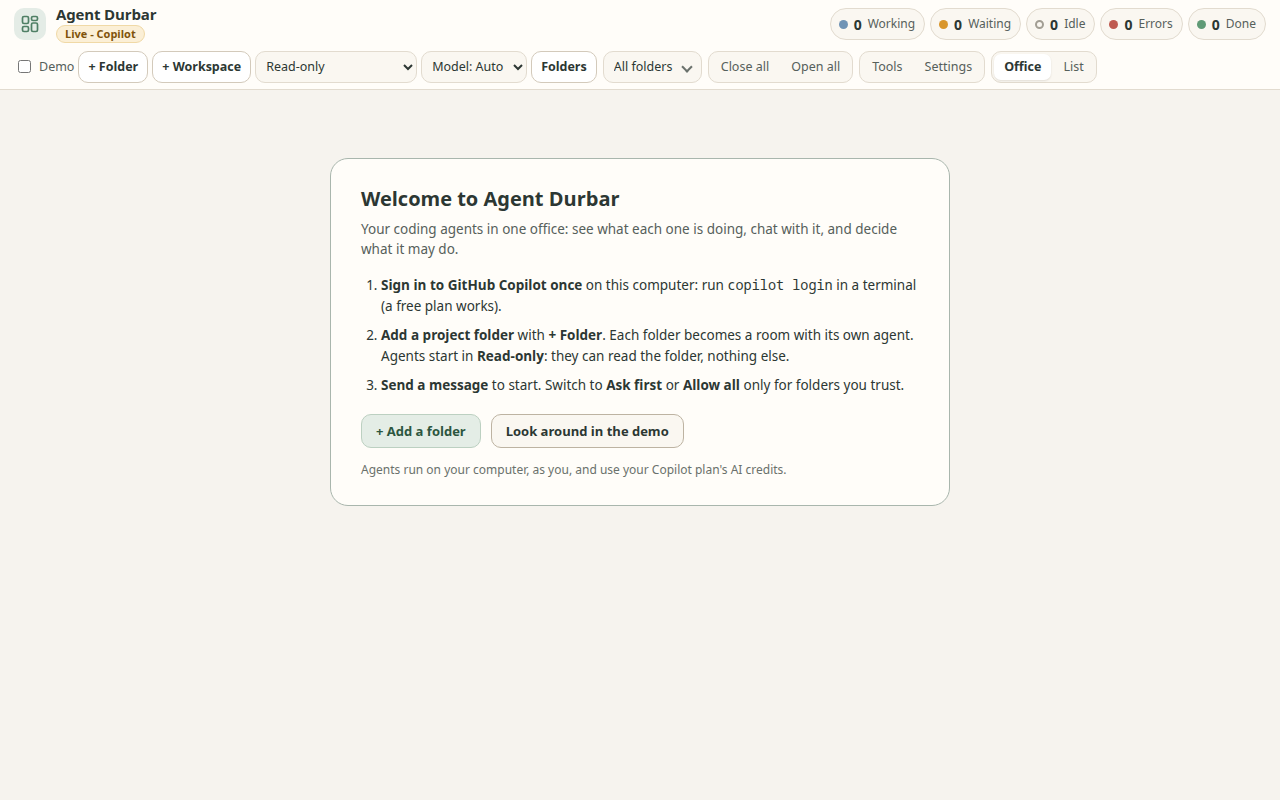
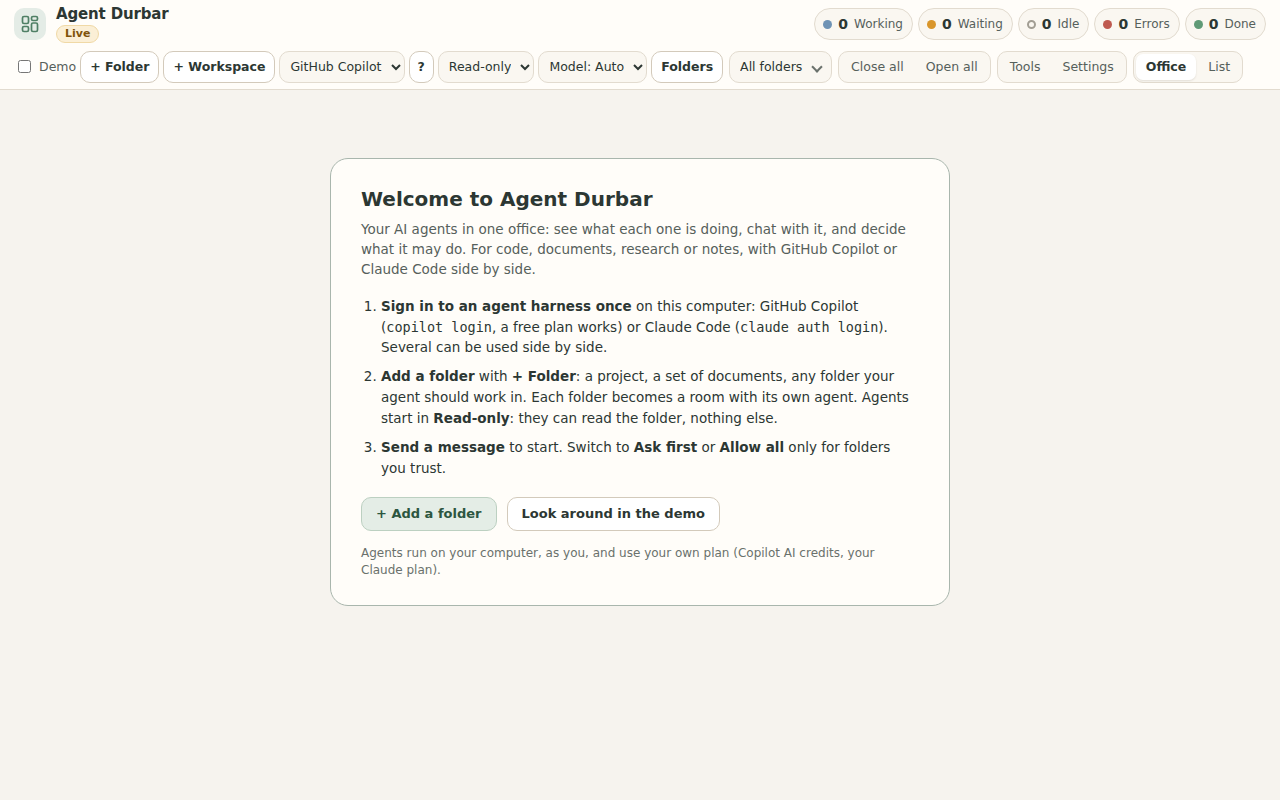
001 FR-027: positioning, many harnesses and anyone with agents (welcome card, badge, README, package description)

Changed region(s): [[0.2812, 0.2188, 0.7188, 0.6562], [0.0312, 0.0, 0.9688, 0.0938], [0.2812, 0.6875, 0.6875, 0.7188]]

diff --git a/src/renderer/app.js b/src/renderer/app.js
@@ -595,14 +595,14 @@ function chooseLayout(sizing,aw,ah){
 let layoutKey='', layout=null;
 /* spec 001 FR-026: what a new user needs before the first folder: sign in once, add a folder (Read-only), or look around in the demo */
 const WELCOME_HTML=`<section class="welcome" aria-labelledby="wlT"><h2 id="wlT">Welcome to Agent Durbar</h2>
-  <p class="wl-sub">Your coding agents in one office: see what each one is doing, chat with it, and decide what it may do.</p>
+  <p class="wl-sub">Your AI agents in one office: see what each one is doing, chat with it, and decide what it may do. For code, documents, research or notes, with GitHub Copilot or Claude Code side by side.</p>
   <ol class="wl-steps">
-    <li><b>Sign in to GitHub Copilot once</b> on this computer: run <code>copilot login</code> in a terminal (a free plan works).</li>
-    <li><b>Add a project folder</b> with <b>+ Folder</b>. Each folder becomes a room with its own agent. Agents start in <b>Read-only</b>: they can read the folder, nothing else.</li>
+    <li><b>Sign in to an agent harness once</b> on this computer: GitHub Copilot (<code>copilot login</code>, a free plan works) or Claude Code (<code>claude auth login</code>). Several can be used side by side.</li>
+    <li><b>Add a folder</b> with <b>+ Folder</b>: a project, a set of documents, any folder your agent should work in. Each folder becomes a room with its own agent. Agents start in <b>Read-only</b>: they can read the folder, nothing else.</li>
     <li><b>Send a message</b> to start. Switch to <b>Ask first</b> or <b>Allow all</b> only for folders you trust.</li>
   </ol>
   <div class="wl-actions"><button class="btn primary" type="button" data-wl="add">+ Add a folder</button><button class="btn" type="button" data-wl="demo">Look around in the demo</button></div>
-  <p class="wl-note">Agents run on your computer, as you, and use your Copilot plan's AI credits.</p></section>`;
+  <p class="wl-note">Agents run on your computer, as you, and use your own plan (Copilot AI credits, your Claude plan).</p></section>`;
 document.addEventListener('click',e=>{const b=e.target.closest('[data-wl]');if(!b)return;
   if(b.dataset.wl==='add')$('addFolder').click();
   else{const t=$('demoToggle');t.checked=true;t.dispatchEvent(new Event('change'));}});
@@ -1033,7 +1033,9 @@ const liveRoot=a=>a.parent?byId(a.parent):a;
 let renderQueued=false;
 function scheduleRender(){if(renderQueued)return;renderQueued=true;requestAnimationFrame(()=>{renderQueued=false;renderAll();});}
 function setBadge(){const b=$('protoBadge'); if(!b)return; b.className='proto'+(SIM&&!demoOn?' sim':'');
-  b.title=SIM&&!demoOn?'Fake events, no sessions started, no AI credits used':'';b.textContent=demoOn?'Prototype - sample data':SIM?'Simulated agents':'Live - Copilot';}
+  /* spec 001 FR-027: not one harness; the tooltip names the ready ones */
+  const ready=DMK().kindChoices(KINDS).filter(k=>!k.disabled).map(k=>k.name);
+  b.title=SIM&&!demoOn?'Fake events, no sessions started, no AI credits used':(!demoOn&&ready.length?'Live: '+ready.join(', '):'');b.textContent=demoOn?'Prototype - sample data':SIM?'Simulated agents':'Live';}
 function applyMode(){
   agents=demoOn?DEMO.agents:LIVE.agents; ROOMS=demoOn?DEMO.rooms:LIVE.rooms;
   ui.ws='all'; ui.status=null;
@@ -1967,6 +1969,7 @@ function applyKinds(){
   /* the other ready kinds' model lists, for their agents' model chips (spec 012 FR-120); a CLI probe, no prompt */
   (KINDS||[]).forEach(k=>{if(!isDefaultKind(k.id)&&k.state==='ready'&&DMK().shows(kindCaps(k.id),'models'))ensureModels(k.id).then(()=>scheduleRender());});
   syncKindModel();
+  setBadge(); /* FR-027: the badge's tooltip lists the ready harnesses */
 }
 async function loadKinds(refresh){
   if(!bridge||!bridge.listAdapters)return;
@@ -1977,7 +1980,7 @@ async function loadKinds(refresh){
 async function aboutKinds(){
   for(;;){
     const ch=DMK().kindChoices(KINDS);
-    const r=await askDialog({title:'About agent kinds',body:'Each kind is a different coding agent. Only a kind that is ready can be chosen. Nothing is installed or run from here: copy the hint if you need to set one up.',
+    const r=await askDialog({title:'About agent kinds',body:'Each kind is a different agent harness. Only a kind that is ready can be chosen. Nothing is installed or run from here: copy the hint if you need to set one up.',
       lines:ch.map(k=>k.name+': '+(k.state==='ready'?'ready':k.stateText)+(k.version?' · version '+k.version:'')+(k.hint?' · '+k.hint:'')),
       buttons:[{label:'Close',value:null},{label:'Check again',value:'again',cls:'primary'}],returnFocus:()=>$('kindHelp')});
     if(!r||r.value!=='again')return;

diff --git a/scripts/shots-001-welcome.js b/scripts/shots-001-welcome.js
@@ -1,0 +1,28 @@
+/*
+ * Spec 001 FR-026/FR-027: the welcome card of an empty office. Real app with a fresh profile (no folders, nothing runs, no
+ * prompt, no credits). Linux with xvfb-run:
+ *
+ *   npm run build
+ *   OUT=docs/screenshots DURBAR_USER_DATA=$(mktemp -d) DURBAR_DRIVER=$PWD/scripts/shots-001-welcome.js xvfb-run -a npx electron . --no-sandbox
+ *
+ * Checks the multi-harness wording (FR-027) and writes 001-welcome-1440x900.png and 001-welcome-1280x800.png.
+ */
+const assert = require('assert');
+const path = require('path');
+const OUT = process.env.OUT || '/tmp';
+
+module.exports = async (ctx) => {
+  for (const [w, h] of [[1440, 900], [1280, 800]]) {
+    ctx.win.setContentSize(w, h);
+    await ctx.sleep(3500);
+    const t = await ctx.js(`(document.querySelector('.welcome')||{}).innerText||''`);
+    assert.ok(t, 'the welcome card is shown');
+    for (const need of ['Your AI agents in one office', 'GitHub Copilot', 'Claude Code', 'Add a folder', 'your own plan']) assert.ok(t.includes(need), `welcome says "${need}"`);
+    assert.ok(!/coding agent/i.test(t), 'no "coding agents" wording');
+    const overflow = await ctx.js(`(()=>{const c=document.querySelector('.welcome').getBoundingClientRect();return c.right>innerWidth+1||c.bottom>innerHeight+1})()`);
+    assert.ok(!overflow, 'the card fits the window');
+    await ctx.shot(path.join(OUT, `001-welcome-${w}x${h}.png`));
+    console.log('[001-welcome]', w, 'ok');
+  }
+  console.log('[001-welcome] PASS');
+};

diff --git a/src/renderer/index.html b/src/renderer/index.html
@@ -24,7 +24,7 @@
       <button class="btn" id="addFolder" type="button" title="Add a folder">+ Folder</button>
       <button class="btn" id="addWs" type="button" title="Add a .code-workspace file">+ Workspace</button>
       <label class="sr-only" for="kindSel">Harness (agent kind) for new folders and sessions</label>
-      <select id="kindSel" title="Harness (agent kind) for new folders and sessions" style="max-width:96px" hidden></select>
+      <select id="kindSel" title="Harness (agent kind) for new folders and sessions" style="max-width:128px" hidden></select>
       <button class="btn" id="kindHelp" type="button" aria-label="About agent kinds" title="About agent kinds" style="padding:0 8px" hidden>?</button>
       <label class="sr-only" for="permMode">Permissions for new agents</label>
       <select id="permMode" title="Permissions for newly added agents"><option value="read-only">Read-only</option><option value="ask">Ask first</option><option value="allow">Allow all (no prompts)</option></select>

diff --git a/README.md b/README.md
@@ -4,9 +4,9 @@
 
 <h1 align="center">Agent Durbar</h1>
 
-<p align="center"><em>A calm command center for your coding agents</em></p>
+<p align="center"><em>A calm command center for your AI agents</em></p>
 
-Command center to see, chat with and coordinate coding agents (Copilot CLI first) in an office-style view.
+An office-style command center to see, chat with and coordinate **AI agents across several harnesses**: GitHub Copilot and Claude Code today, Codex in progress. It is for **anyone who works with agents**, not only developers. A room is any folder an agent works in: code, documents, research or notes.
 
 > Status: **alpha, `v0.1.0-alpha.6` ([published pre-release](https://github.com/three-feathers/agent-durbar/releases/tag/v0.1.0-alpha.6), unsigned, not notarized).** It offers **Claude Code next to Copilot** when it is installed, and continues each folder's **last session after a restart**. It also adds questions from agents, custom agents per session, scheduled prompts and copy buttons, plus a security sweep; see [CHANGELOG.md](CHANGELOG.md). `v0.1.0-alpha.5` stays available. The Electron app starts real GitHub Copilot sessions through `@github/copilot-sdk`, one per folder or `.code-workspace` file, and feeds the office view from live events. 10-15 agents stay readable on one 1440x900 / 1280x800 screen. **Claude Code is offered next to Copilot when it is installed and signed in** (no switch needed); Codex is groundwork only (see [Agents and adapters](#agents-and-adapters)). Latest work: [themes](#status-themes-clean-office-corporate-retro-pixel-three-durbar-courts-your-own-packs), [agents show how they are doing](#status-agents-show-how-they-are-doing-heavy-monster-ambulance-room-sirens), [floors](#status-floors-group-rooms-and-switch-a-floor-off), [places in the office](#status-places-in-the-office-a-shared-lobby-agents-walk-to-the-tool-they-use), [milestone 10 and usage totals](#status-milestone-10-tools-all-time-the-copilot-cli-mcp-list-first-mcp-extras-per-folder). Only Linux has been run by hand; macOS and Windows are built and unit-tested in CI but untested on real hardware. Built by [Three Feathers](https://github.com/three-feathers); the work is tracked on the [project board](https://github.com/orgs/three-feathers/projects/1).
 
@@ -543,7 +543,9 @@ Not done yet / known gaps:
 
 ## Vision
 
-- **See**: every running coding agent at a glance, what it is doing now, and its state (idle / working / needs permission / error).
+- **Any harness, side by side**: GitHub Copilot, Claude Code and (in progress) Codex agents in one office, each with its own permission mode, model and usage.
+- **For anyone with agents**: writing, research, operations or code. Durbar shows what agents do in plain words and keeps you in control of what they may do.
+- **See**: every running agent at a glance, what it is doing now, and its state (idle / working / needs permission / error).
 - **Control**: start, stop and message agents; approve or deny permission prompts.
 - **Coordinate**: group agents by project/folder and watch them work in parallel.
 - **Office view**: each agent is a person in a room; sub-agents appear next to the agent that spawned them.

diff --git a/specs/001-office-view-and-densities/spec.md b/specs/001-office-view-and-densities/spec.md
@@ -193,9 +193,10 @@ Spec [024](../024-office-places/spec.md) adds a one-row **lobby** band between t
 
 *Owner, 2026-10-19:* "our target is muti harness and not only for coders/developers - anybody can use it for their agents".
 
-- **FR-027** Everything that describes the app says the same thing: Agent Durbar is a calm command center for **AI agents**, across **several harnesses** (GitHub Copilot, Claude Code, Codex in progress), for **anyone who works with agents**, not only developers. A room is any folder an agent works in: code, documents, research or notes.
+- **FR-027** `[IMPLEMENTED]` Everything that describes the app says the same thing: Agent Durbar is a calm command center for **AI agents**, across **several harnesses** (GitHub Copilot, Claude Code, Codex in progress), for **anyone who works with agents**, not only developers. A room is any folder an agent works in: code, documents, research or notes.
   - The welcome card (FR-026) names the harnesses: sign in to one of them. It says "folder", not "project folder", and the note speaks of "your own plan", not only Copilot's AI credits.
   - The "About agent kinds" dialog says "agent harness", not "coding agent".
   - The README tagline, intro and Vision follow this, as do `package.json` `description` and the GitHub repository description and topics.
   - Honest limits stay: Codex is not offered yet, and agents still act on files in the folders you add.
-- `sim:` the welcome card at 1440x900 and 1280x800 (the FR-026 driver), and `check:office`.
+  - The header badge says **Live**, with the ready harnesses in its tooltip; it no longer says "Live - Copilot". The harness select is 128 px wide, so "GitHub Copilot" is no longer cut to "GitHub Cc".
+- `sim:` `scripts/shots-001-welcome.js` (new; a real app with an empty profile, no prompt) at 1440x900 and 1280x800 checks the wording and that the card fits; the screenshots are replaced. `check:office` 302/302.

diff --git a/CHANGELOG.md b/CHANGELOG.md
@@ -4,6 +4,10 @@ Agent Durbar is an alpha. Builds are unsigned and have only been run by hand on 
 
 ## Unreleased (on `main`, after the alpha.6 tag)
 
+- **For anyone with agents, across harnesses (spec 001 FR-027).**
+  - The welcome card, the README, the app description and the repository description now say what Durbar is: a calm command center for AI agents on GitHub Copilot, Claude Code and (in progress) Codex, for code, documents, research or notes, not only for developers.
+  - The header badge says **Live**; its tooltip lists the ready harnesses.
+
 - **Codex groundwork, first real run (spec 012 FR-138..FR-140).** The Codex adapter, not offered yet, now starts on Codex 0.163 and enforces Read-only, Ask first and Allow all on a real account. A blocked Linux sandbox gives a plain message, with an Ubuntu note in the README. Stop says when a command that already started may still finish.
 
 - **Codex groundwork: sign-in check (spec 012 FR-137).** Codex detection now runs `codex login status` after the version, so a signed-out Codex will show "not signed in" with how to sign in. It takes effect when the Codex adapter is offered (#51).

diff --git a/specs/001-office-view-and-densities/tasks.md b/specs/001-office-view-and-densities/tasks.md
@@ -42,4 +42,4 @@
 ## Changes 2026-10-19 (first run)
 
 - [x] T032 Welcome card for an empty office; screenshots [FR-026]
-- [ ] T033 (2026-10-19) Positioning: many harnesses, anyone with agents (welcome card, About agent kinds, README, package.json, repo description) [FR-027]
+- [x] T033 (2026-10-19) Positioning: many harnesses, anyone with agents (welcome card, About agent kinds, README, package.json, repo description) [FR-027]
